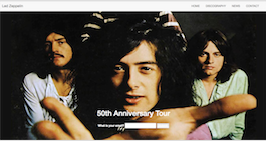
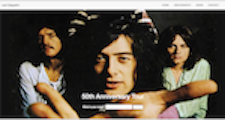
band page url change

diff --git a/10week/portfolio/index.html b/10week/portfolio/index.html
@@ -11,7 +11,6 @@
 
   <!-- Bootstrap Core CSS -->
   <link rel="stylesheet" href="https://maxcdn.bootstrapcdn.com/bootstrap/3.3.7/css/bootstrap.min.css">
-
   <script src="https://ajax.googleapis.com/ajax/libs/jquery/3.1.1/jquery.min.js"></script>
   <script src="https://maxcdn.bootstrapcdn.com/bootstrap/3.3.7/js/bootstrap.min.js"></script>
 </head>
@@ -29,6 +28,7 @@
     </div>
     <div class="collapse navbar-collapse" id="myNavbar">
       <ul class="nav navbar-nav navbar-right">
+        <li><a href="#Portfolio">PORTFOLIO</a></li>
         <li><a href="#About">ABOUT</a></li>
         <li><a href="#Blog">BLOG</a></li>
         <li><a href="#Contact">CONTACT</a></li>
@@ -39,37 +39,59 @@
 </header>
 
   <body>
-<!--Top section with code background img-->
+<!--First parallax-->
     <section id="hero">
         <div class="parallax-window" data-parallax="scroll" data-image-src="img/tron.jpg">J.D. Rowlett</div>
     </section>
 
-<!--Lower section of icons with links to examples of work-->
+    <section id="masthead">
+      <div class="scripttext">
 
-      <section id="icons">
-        <div class="rowone">
-          <hr></hr>
-          <h4>NASA Page</h4>
-            <img src="img/nasa.png" href="https://jdrowlett.github.io/web-workbook/02week/nasa/index.html">
-            <hr></hr>
-          <h4>Restaurant</h4>
-            <img src="img/restaurant.png" href="https://jdrowlett.github.io/web-workbook/05week/BootstrapGridProject/index.html">
+      </div>
+    </section>
+
+    <section id="portfolio">
+        <div class="parallax-window" data-parallax="scroll" data-image-src="img/tron.jpg">Portfolio</div>
+    </section>
+
+
+<!--Work section icons-->
+      <section id="row-one">
+        <div class="nasa">
+          <h4>NASA</h4>
+            <a href="https://jdrowlett.github.io/web-workbook/02week/nasa/index.html">
+            <img src="img/nasa.png" alt="NASA" width="250px" height="200px" border="0">
+            </a>
         </div>
-        <div class="rowtwo">
+        <div class="takeout">
+          <h4>Order Takeout</h4>
+            <a  href="https://jdrowlett.github.io/web-workbook/05week/BootstrapGridProject/index.html">
+            <img src="img/restaurant.png" alt="Order Takeout" width="275px" height="200px" border="0"></a>
           <hr></hr>
-          <h4>Band Page</h4>
-            <img src="img/band.png" href="https://jdrowlett.github.io/web-workbook/06week/forms/index.html">
-            <hr></hr>
+        </div>
+        <div class="lz">
+          <h4>Led Zeppelin</h4>
+            <a href="https://jdrowlett.github.io/web-workbook/06week/forms/index.html">
+            <img src="img/band.png"></a>
+          <hr></hr>
+        </div>
+      </section>
+<!--Second Row of work sample icons-->
+      <section id="row-two">
+        <div class="winery">
           <h4>Winery</h4>
             <img src="img/winery.png" href="https://jdrowlett.github.io/web-workbook/07week/Checkpoint2/index.html">
-        </div>
-        <div class="rowthree">
           <hr></hr>
-          <h4>Age Verification</h4>
-            <img src="img/verification.png" href="https://jdrowlett.github.io/web-workbook/08week/age_verification/index.html">
+        </div>
+        <div class="grid">
+          <a><h4>Grid Mobile App</h4>
+            <img src="img/grid.png" href="https://jdrowlett.github.io/web-workbook/04week/01checkpoint/index.html"></a>
             <hr></hr>
+        </div>
+        <div class="tictactoe">
           <h4>Tic-Tac-Toe!</h4>
             <img src="img/tictactoe.png" href="https://jdrowlett.github.io/web-workbook/09week/tic-tac-toe/index.html">
+          <hr></hr>
         </div>
       </section>
 

diff --git a/10week/portfolio/css/style.css b/10week/portfolio/css/style.css
@@ -8,7 +8,7 @@
   font-size: 28px;
   display: flex;
   justify-content: center;
-  padding-right: 425px;
+  padding-right: 375px;
 }
 
 #hero {
@@ -23,22 +23,52 @@
   padding-top: 100px;
 }
 
-#icons-one {
-  display: flex;
-  align-items: center;
-  text-align: center;
-	padding-left: 50px;
+#profile {
+	margin: 100px 100px 100px 100px;
+	display: flex;
+	justify-content: center;
+
 }
 
-#icons-two {
+#row-one {
   display: flex;
-  align-items: center;
+	align-items: center;
+	justify-content: space-around;
   text-align: center;
+	font-family: 'Squada One', serif;
+	font-size: 26px;
+	margin: 25px 25px 25px 25px;
 }
 
-h4 {
-  font-family: 'Squada One', serif;
-  font-size: 20px;
+.nasa {
+	padding-top: 35px;
+}
+
+.takeout {
+	padding-bottom: 25px;
+	padding-left: 25px;
+}
+
+.lz {
+	padding-bottom: 25px;
+}
+
+.grid {
+	padding-right: 25px;
+}
+
+.tictactoe {
+	padding-right: 35px;
+}
+
+#row-two {
+	display: flex;
+	align-items: center;
+	justify-content: space-around;
+  text-align: center;
+	font-family: 'Squada One', serif;
+	font-size: 26px;
+	margin: 25px 25px 25px 25px;
 }
 
 footer {
